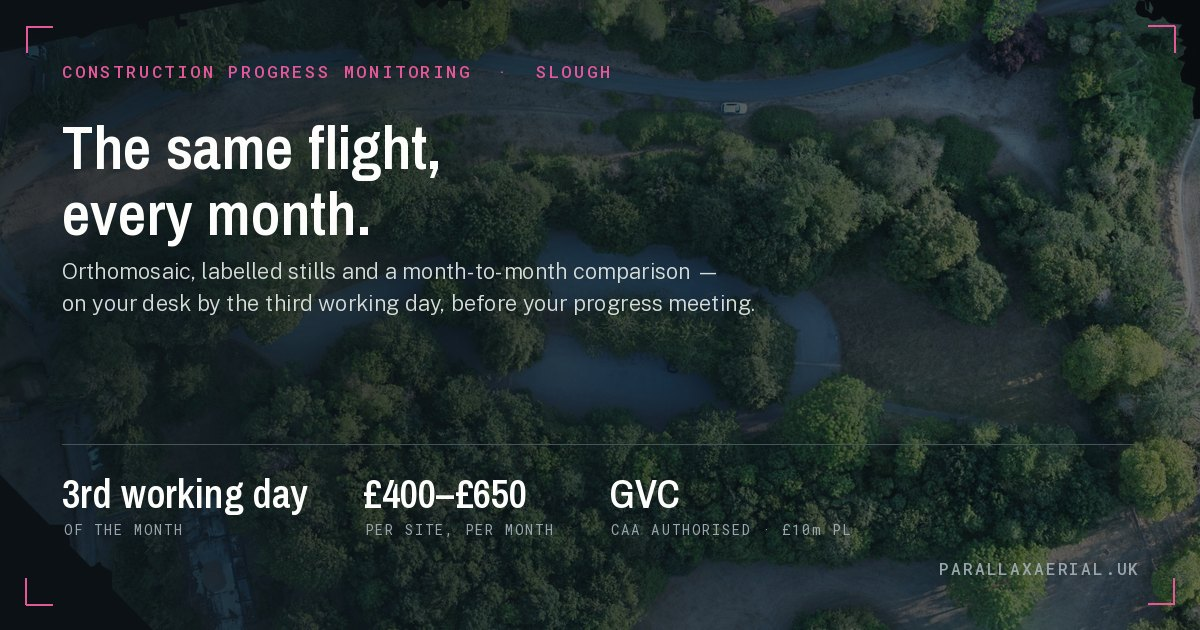
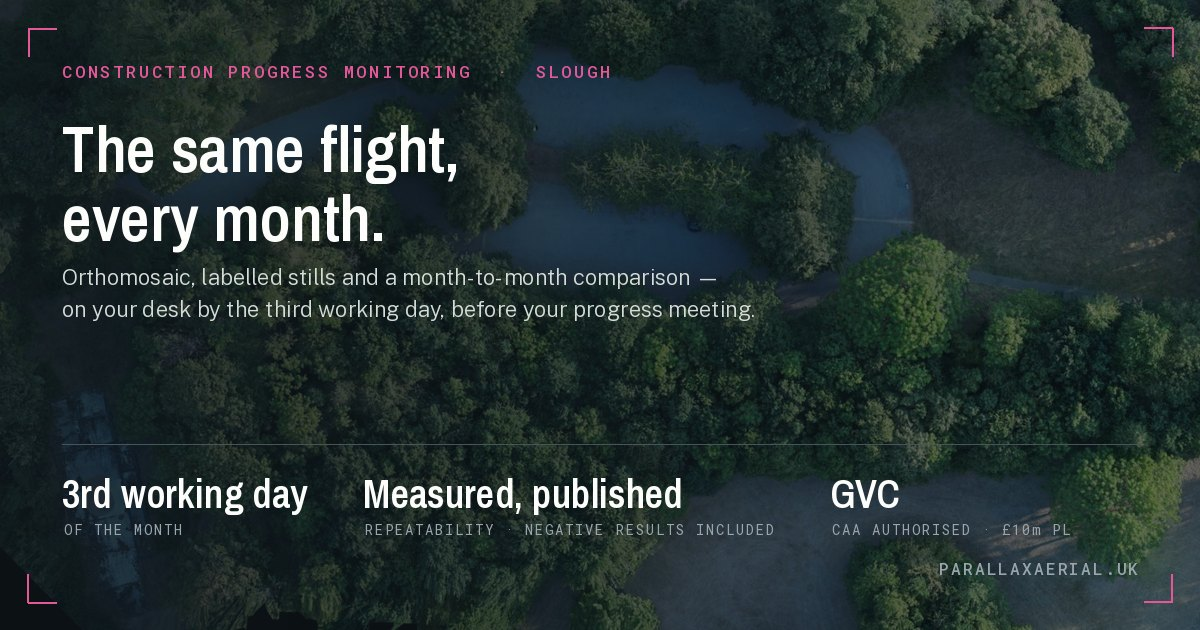
Drop stale price from og-default card, recrop and tighten type
The card still showed £400-£650/month, dropped from the site on 2026-08-13 under the no-published-prices rule; the generator was never rerun. Swapped for the repeatability figure already on the homepage spec row, and recropped off-centre to drop the access road/car near the top in favour of the pond.

diff --git a/scripts/make_og_cards.py b/scripts/make_og_cards.py
@@ -63,21 +63,28 @@ def tracked(draw, xy, text, f, fill, tracking):
     return x
 
 
-def base(src, zoom=0.78):
+def base(src, zoom=0.78, bias_x=0.0, bias_y=0.0, scrim=0.60):
     im = Image.open(src).convert("RGB")
     # Centre-crop to 1200:630. `zoom` pulls in past the survey boundary — the
     # orthomosaic has black nodata wedges at its corners, and a full-frame crop
     # puts one of them behind the headline where it reads as a rendering fault.
+    # `bias_x`/`bias_y` (-1..1) shift the crop window off-centre within what
+    # the zoom leaves free — used on og-default to drop the access road/car
+    # near the top of frame in favour of the pond, which reads better small.
     tw, th = im.width, int(im.width * H / W)
     if th > im.height:
         th, tw = im.height, int(im.height * W / H)
     tw, th = int(tw * zoom), int(th * zoom)
     left, top = (im.width - tw) // 2, (im.height - th) // 2
+    left += int(bias_x * (im.width - tw) / 2)
+    top += int(bias_y * (im.height - th) / 2)
+    left = max(0, min(im.width - tw, left))
+    top = max(0, min(im.height - th, top))
     im = im.crop((left, top, left + tw, top + th)).resize((W, H), Image.LANCZOS)
 
     # Flat scrim plus a left-weighted gradient: the text block sits on the left,
     # and a single flat layer heavy enough for it kills the whole image.
-    im = Image.blend(im, Image.new("RGB", (W, H), INK), 0.60)
+    im = Image.blend(im, Image.new("RGB", (W, H), INK), scrim)
     grad = Image.new("L", (W, 1))
     for x in range(W):
         grad.putpixel((x, 0), int(150 * max(0.0, 1 - (x / (W * 0.86)) ** 1.5)))
@@ -85,9 +92,9 @@ def base(src, zoom=0.78):
                            grad.resize((W, H), Image.BILINEAR))
 
 
-def ticks(d):
+def ticks(d, t=26):
     """The corner registration marks used on every plate on the site."""
-    t, o = 26, 26
+    o = t
     for (x, y, dx, dy) in ((o, o, 1, 1), (W - o, o, -1, 1),
                            (o, H - o, 1, -1), (W - o, H - o, -1, -1)):
         d.line([(x, y), (x + dx * t, y)], fill=MAGENTA, width=2)
@@ -95,13 +102,14 @@ def ticks(d):
 
 
 def card(f, src, out, eyebrow, head, stand, figs,
-         url="parallaxaerial.uk"):
-    im = base(src)
+         url="parallaxaerial.uk", zoom=0.78, bias_x=0.0, bias_y=0.0, scrim=0.60,
+         h_size=62, h_gap=66, tick=26):
+    im = base(src, zoom=zoom, bias_x=bias_x, bias_y=bias_y, scrim=scrim)
     d = ImageDraw.Draw(im)
-    ticks(d)
+    ticks(d, tick)
 
     f_eye = font(f["rm"], 17, 500)
-    f_h = font(f["an"], 62, 600)
+    f_h = font(f["an"], h_size, 600)
     f_st = font(f["ps"], 22, 300)
     f_val = font(f["an"], 40, 600)
     f_lab = font(f["rm"], 14, 400)
@@ -113,7 +121,7 @@ def card(f, src, out, eyebrow, head, stand, figs,
     y = 104
     for line in head:
         d.text((x, y), line, font=f_h, fill=PAPER)
-        y += 66
+        y += h_gap
 
     y += 22
     for line in stand:
@@ -154,13 +162,21 @@ if __name__ == "__main__":
          ("2.7×", "VOLUME OVER-READ")],
     )
 
-    # Figures must match the homepage spec row.
+    # Figures must match the homepage spec row (index.html .spec — the price
+    # band shown here until 2026-08-26 was dropped from the site 2026-08-13
+    # per the no-published-prices rule and this card was never regenerated;
+    # swapped for the row's current third figure, "Repeatability"). Crop is
+    # biased down off the default centre-crop to drop the access road/car
+    # near the top in favour of the pond, and the headline/ticks are sized
+    # up a touch — both read better at social-card thumbnail scale.
     card(
         f, ortho, root + "/media/og-default.jpg",
         "CONSTRUCTION PROGRESS MONITORING  ·  SLOUGH",
         ["The same flight,", "every month."],
         ["Orthomosaic, labelled stills and a month-to-month comparison —",
          "on your desk by the third working day, before your progress meeting."],
-        [("3rd working day", "OF THE MONTH"), ("£400–£650", "PER SITE, PER MONTH"),
+        [("3rd working day", "OF THE MONTH"),
+         ("Measured, published", "REPEATABILITY · NEGATIVE RESULTS INCLUDED"),
          ("GVC", "CAA AUTHORISED · £10m PL")],
+        zoom=0.60, bias_y=0.55, scrim=0.58, h_size=65, h_gap=69, tick=28,
     )
